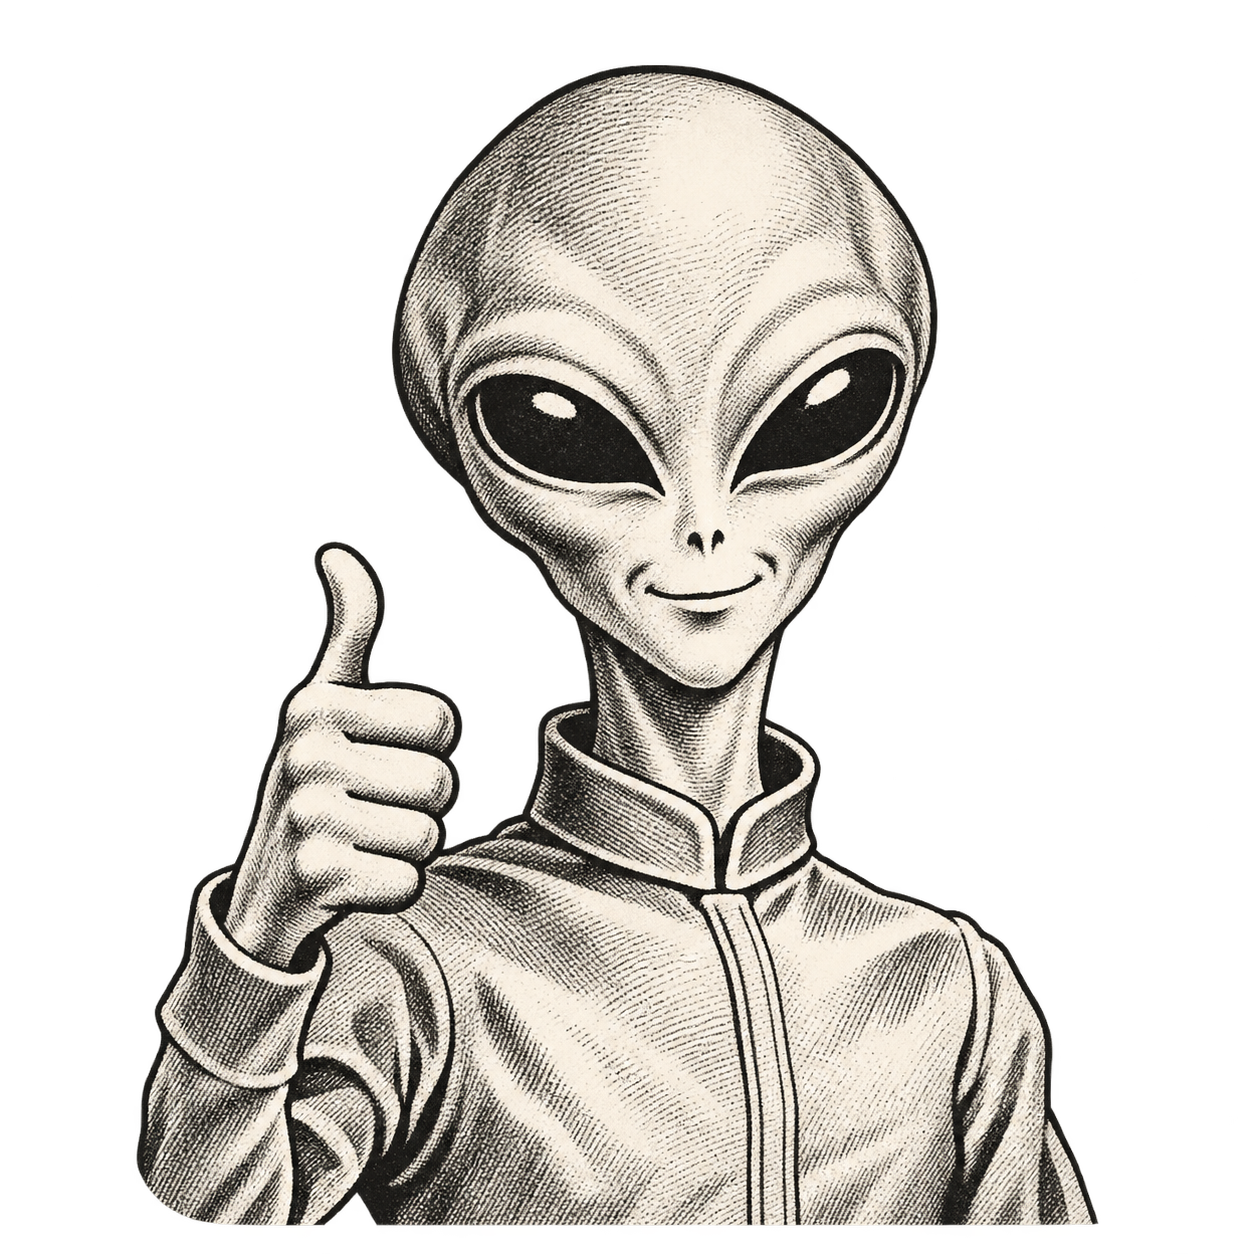
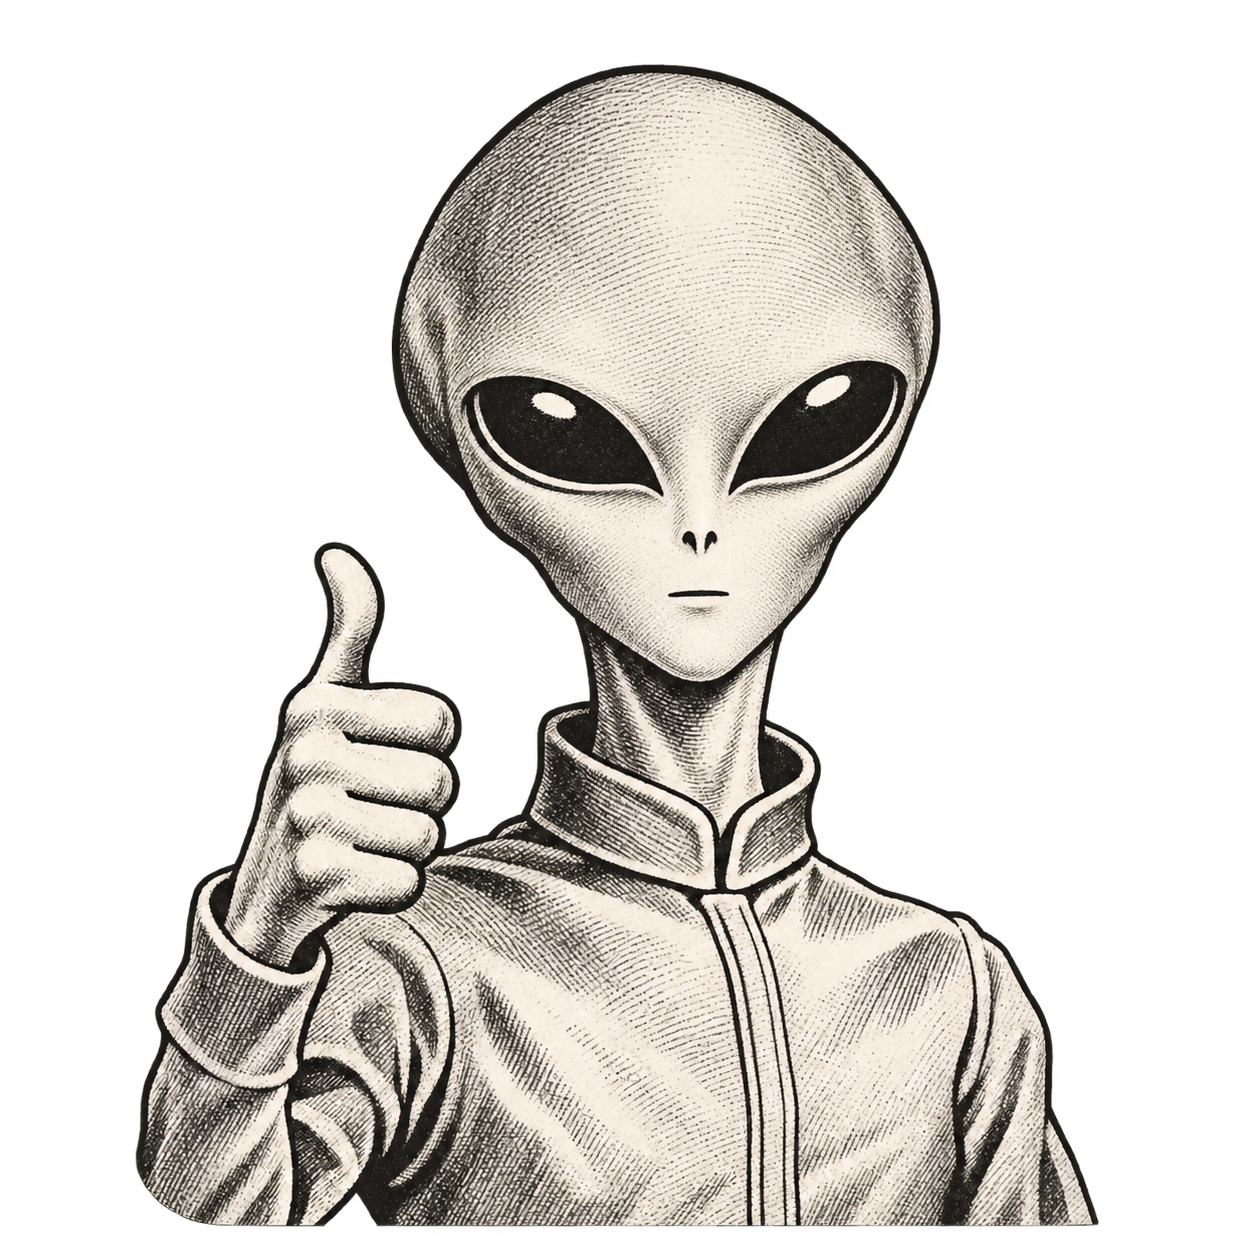
Make the vintage alien emblem expressionless

Changed region(s): [[0.0933, 0.0311, 0.8708, 0.9952]]

diff --git a/uap-lab/static/index.html b/uap-lab/static/index.html
@@ -15,6 +15,6 @@
 <div class="test-grid" aria-hidden="true"></div>
 <div class="test-bars test-bars-top" aria-hidden="true"></div><div class="test-bars test-bars-bottom" aria-hidden="true"></div>
 <div class="test-ring" aria-hidden="true"><span class="test-cross test-cross-h"></span><span class="test-cross test-cross-v"></span></div>
-<div class="test-message"><img class="test-emblem" src="/ufo-engraving.png?v=alien-1" alt="" aria-hidden="true"><strong>NO SIGNAL</strong><span class="test-standby">PLEASE STAND BY</span></div>
+<div class="test-message"><img class="test-emblem" src="/ufo-engraving.png?v=neutral-2" alt="" aria-hidden="true"><strong>NO SIGNAL</strong><span class="test-standby">PLEASE STAND BY</span></div>
 <svg class="test-grain" aria-hidden="true" focusable="false" xmlns="http://www.w3.org/2000/svg"><defs><filter id="crt-grain"><feTurbulence type="fractalNoise" baseFrequency=".8" numOctaves="1" stitchTiles="stitch"/><feColorMatrix type="saturate" values="0"/><feComponentTransfer><feFuncA type="linear" slope="0" intercept="1"/></feComponentTransfer></filter></defs><rect width="100%" height="100%" filter="url(#crt-grain)"/></svg>
 </div><p id="liveStatus" class="live-health" data-state="connecting" role="status" aria-label="Live feed connecting"><span class="status-dot" aria-hidden="true"></span><span>Live</span></p><div id="rfOverlay" class="rf-overlay" aria-label="Live RF spectrum"><div class="session-control"><label id="sessionLabel" for="sessionToggle">Manual Recording</label><input id="sessionToggle" type="checkbox" role="switch" aria-label="Manual Recording" aria-describedby="sessionStatus" disabled><span id="sessionStatus" role="status"></span></div><div class="rf-heading"><span>RF spectrum</span><span id="rfStatus" role="status">Connecting…</span></div><canvas id="rfNarrow" width="600" height="140" role="img" aria-label="Narrow-band RF power spectrum"></canvas><canvas id="rfWide" width="600" height="140" role="img" aria-label="Wide-band RF power spectrum"></canvas></div></div></section></main><script src="/app.js?v=30"></script></body></html>

diff --git a/docs/no-signal-artwork.md b/docs/no-signal-artwork.md
@@ -7,3 +7,9 @@ The alien engraving was generated using the built-in imagegen tool with this pro
 Create ONLY a central character emblem for a vintage atomic-era television test pattern. Transparent background. A waist-up classic grey alien giving a clear thumbs-up with one hand beside its shoulder, facing the viewer, with a confident reassuring slight smile. Mid-century 1940s–1950s public-information illustration, hand-inked technical editorial engraving, disciplined black outlines, restrained crosshatching, cream-white interior highlights, sophisticated vintage print craftsmanship. Large almond-shaped black eyes, elegant elongated head, subtle simple retro flight-suit collar. Original alien character, not an existing game character. Readable and compact silhouette, thumb and hand clearly recognizable at small sizes. Professional archival broadcast emblem rather than glossy cartoon, no 3D rendering, no cute chibi proportions, no exaggerated toothy grin. Monochrome black, gray and off-white only, to receive green phosphor tint in the interface. Center character within a square composition with modest transparent margins; preserve complete head and thumbs-up hand. No text, no border, no circle, no background, no paper rectangle, no stars, no screen, no test-pattern geometry.
 
 Only the no-signal overlay receives the CRT treatment. Source recordings, review images, and camera recovery logic are unchanged.
+
+## Expressionless revision
+
+Edited with the built-in imagegen tool using the existing emblem as the reference. Final edit prompt:
+
+Edit this central alien illustration with one targeted change: make the face completely expressionless and impassive. Replace the curved smile with a tiny straight horizontal closed mouth, no lifted corners. Remove the smile creases/dimples and expressive raised eyebrow ridges. Smooth neutral forehead and cheek anatomy, large dark almond eyes with a still unreadable gaze. Neither happy nor angry nor sad: emotionally neutral and enigmatic. Preserve exactly the existing vintage hand-engraved crosshatching, monochrome ink palette, head proportions, pose, thumbs-up hand, flight suit, body silhouette, scale, square framing, crop and transparent background. Keep complete head and hand at the same locations. Do not add a background, text, border, test pattern, or colored pixels. This is an edit of the supplied emblem, not a redesigned layout.
